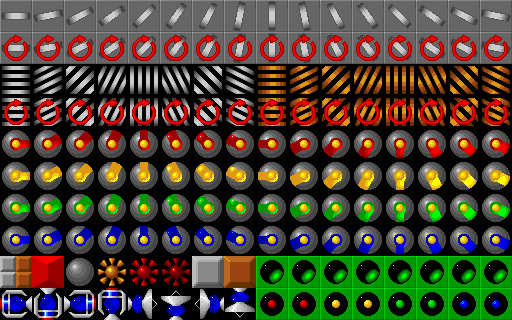
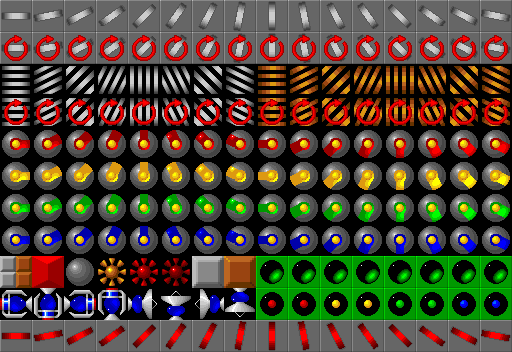
added Deflektor style fixed mirror game elements to MM engine

diff --git a/src/conf_gfx.c b/src/conf_gfx.c
@@ -5787,6 +5787,71 @@ struct ConfigInfo image_config[] =
   { "df_mine.active.delay",			"6"			},
   { "df_mine.active.anim_mode",			"pingpong"		},
 
+  { "df_mirror_fixed_1",			"RocksDF.png"		},
+  { "df_mirror_fixed_1.xpos",			"0"			},
+  { "df_mirror_fixed_1.ypos",			"10"			},
+  { "df_mirror_fixed_1.frames",			"1"			},
+  { "df_mirror_fixed_2",			"RocksDF.png"		},
+  { "df_mirror_fixed_2.xpos",			"1"			},
+  { "df_mirror_fixed_2.ypos",			"10"			},
+  { "df_mirror_fixed_2.frames",			"1"			},
+  { "df_mirror_fixed_3",			"RocksDF.png"		},
+  { "df_mirror_fixed_3.xpos",			"2"			},
+  { "df_mirror_fixed_3.ypos",			"10"			},
+  { "df_mirror_fixed_3.frames",			"1"			},
+  { "df_mirror_fixed_4",			"RocksDF.png"		},
+  { "df_mirror_fixed_4.xpos",			"3"			},
+  { "df_mirror_fixed_4.ypos",			"10"			},
+  { "df_mirror_fixed_4.frames",			"1"			},
+  { "df_mirror_fixed_5",			"RocksDF.png"		},
+  { "df_mirror_fixed_5.xpos",			"4"			},
+  { "df_mirror_fixed_5.ypos",			"10"			},
+  { "df_mirror_fixed_5.frames",			"1"			},
+  { "df_mirror_fixed_6",			"RocksDF.png"		},
+  { "df_mirror_fixed_6.xpos",			"5"			},
+  { "df_mirror_fixed_6.ypos",			"10"			},
+  { "df_mirror_fixed_6.frames",			"1"			},
+  { "df_mirror_fixed_7",			"RocksDF.png"		},
+  { "df_mirror_fixed_7.xpos",			"6"			},
+  { "df_mirror_fixed_7.ypos",			"10"			},
+  { "df_mirror_fixed_7.frames",			"1"			},
+  { "df_mirror_fixed_8",			"RocksDF.png"		},
+  { "df_mirror_fixed_8.xpos",			"7"			},
+  { "df_mirror_fixed_8.ypos",			"10"			},
+  { "df_mirror_fixed_8.frames",			"1"			},
+  { "df_mirror_fixed_9",			"RocksDF.png"		},
+  { "df_mirror_fixed_9.xpos",			"8"			},
+  { "df_mirror_fixed_9.ypos",			"10"			},
+  { "df_mirror_fixed_9.frames",			"1"			},
+  { "df_mirror_fixed_10",			"RocksDF.png"		},
+  { "df_mirror_fixed_10.xpos",			"9"			},
+  { "df_mirror_fixed_10.ypos",			"10"			},
+  { "df_mirror_fixed_10.frames",		"1"			},
+  { "df_mirror_fixed_11",			"RocksDF.png"		},
+  { "df_mirror_fixed_11.xpos",			"10"			},
+  { "df_mirror_fixed_11.ypos",			"10"			},
+  { "df_mirror_fixed_11.frames",		"1"			},
+  { "df_mirror_fixed_12",			"RocksDF.png"		},
+  { "df_mirror_fixed_12.xpos",			"11"			},
+  { "df_mirror_fixed_12.ypos",			"10"			},
+  { "df_mirror_fixed_12.frames",		"1"			},
+  { "df_mirror_fixed_13",			"RocksDF.png"		},
+  { "df_mirror_fixed_13.xpos",			"12"			},
+  { "df_mirror_fixed_13.ypos",			"10"			},
+  { "df_mirror_fixed_13.frames",		"1"			},
+  { "df_mirror_fixed_14",			"RocksDF.png"		},
+  { "df_mirror_fixed_14.xpos",			"13"			},
+  { "df_mirror_fixed_14.ypos",			"10"			},
+  { "df_mirror_fixed_14.frames",		"1"			},
+  { "df_mirror_fixed_15",			"RocksDF.png"		},
+  { "df_mirror_fixed_15.xpos",			"14"			},
+  { "df_mirror_fixed_15.ypos",			"10"			},
+  { "df_mirror_fixed_15.frames",		"1"			},
+  { "df_mirror_fixed_16",			"RocksDF.png"		},
+  { "df_mirror_fixed_16.xpos",			"15"			},
+  { "df_mirror_fixed_16.ypos",			"10"			},
+  { "df_mirror_fixed_16.frames",		"1"			},
+
   // (these are only defined as elements to support ".PANEL" definitions)
   { "graphic_1",				UNDEFINED_FILENAME	},
   { "graphic_2",				UNDEFINED_FILENAME	},

diff --git a/src/main.c b/src/main.c
@@ -6360,6 +6360,86 @@ struct ElementNameInfo element_name_info[MAX_NUM_ELEMENTS + 1] =
     "empty_space",
     "empty space 16"
   },
+  {
+    "df_mirror_fixed_1",
+    "df_mirror_fixed",
+    "fixed mirror (DF style) (0\xb0)"
+  },
+  {
+    "df_mirror_fixed_2",
+    "df_mirror_fixed",
+    "fixed mirror (DF style) (11.25\xb0)"
+  },
+  {
+    "df_mirror_fixed_3",
+    "df_mirror_fixed",
+    "fixed mirror (DF style) (22.5\xb0)"
+  },
+  {
+    "df_mirror_fixed_4",
+    "df_mirror_fixed",
+    "fixed mirror (DF style) (33.75\xb0)"
+  },
+  {
+    "df_mirror_fixed_5",
+    "df_mirror_fixed",
+    "fixed mirror (DF style) (45\xb0)"
+  },
+  {
+    "df_mirror_fixed_6",
+    "df_mirror_fixed",
+    "fixed mirror (DF style) (56.25\xb0)"
+  },
+  {
+    "df_mirror_fixed_7",
+    "df_mirror_fixed",
+    "fixed mirror (DF style) (67.5\xb0)"
+  },
+  {
+    "df_mirror_fixed_8",
+    "df_mirror_fixed",
+    "fixed mirror (DF style) (78.75\xb0)"
+  },
+  {
+    "df_mirror_fixed_9",
+    "df_mirror_fixed",
+    "fixed mirror (DF style) (90\xb0)"
+  },
+  {
+    "df_mirror_fixed_10",
+    "df_mirror_fixed",
+    "fixed mirror (DF style) (101.25\xb0)"
+  },
+  {
+    "df_mirror_fixed_11",
+    "df_mirror_fixed",
+    "fixed mirror (DF style) (112.5\xb0)"
+  },
+  {
+    "df_mirror_fixed_12",
+    "df_mirror_fixed",
+    "fixed mirror (DF style) (123.75\xb0)"
+  },
+  {
+    "df_mirror_fixed_13",
+    "df_mirror_fixed",
+    "fixed mirror (DF style) (135\xb0)"
+  },
+  {
+    "df_mirror_fixed_14",
+    "df_mirror_fixed",
+    "fixed mirror (DF style) (146.25\xb0)"
+  },
+  {
+    "df_mirror_fixed_15",
+    "df_mirror_fixed",
+    "fixed mirror (DF style) (157.5\xb0)"
+  },
+  {
+    "df_mirror_fixed_16",
+    "df_mirror_fixed",
+    "fixed mirror (DF style) (168.75\xb0)"
+  },
 
   // --------------------------------------------------------------------------
   // "real" (and therefore drawable) runtime elements

diff --git a/src/game_mm/mm_main.h b/src/game_mm/mm_main.h
@@ -103,6 +103,8 @@
 				 (e) <= EL_DF_MIRROR_END)
 #define IS_DF_MIRROR_AUTO(e)	((e) >= EL_DF_MIRROR_AUTO_START &&	\
 				 (e) <= EL_DF_MIRROR_AUTO_END)
+#define IS_DF_MIRROR_FIXED(e)	((e) >= EL_DF_MIRROR_FIXED_START &&	\
+				 (e) <= EL_DF_MIRROR_FIXED_END)
 #define IS_LASER(e)		((e) >= EL_LASER_START &&		\
 				 (e) <= EL_LASER_END)
 #define IS_RECEIVER(e)		((e) >= EL_RECEIVER_START &&		\
@@ -585,7 +587,26 @@ extern int		num_element_info;
 #define EL_DF_WALL_STEEL	429
 #define EL_DF_WALL_WOOD		430
 
-#define EL_MM_END_2		430
+#define EL_DF_MIRROR_FIXED_START 431
+#define EL_DF_MIRROR_FIXED_00	(EL_DF_MIRROR_FIXED_START + 0)
+#define EL_DF_MIRROR_FIXED_01	(EL_DF_MIRROR_FIXED_START + 1)
+#define EL_DF_MIRROR_FIXED_02	(EL_DF_MIRROR_FIXED_START + 2)
+#define EL_DF_MIRROR_FIXED_03	(EL_DF_MIRROR_FIXED_START + 3)
+#define EL_DF_MIRROR_FIXED_04	(EL_DF_MIRROR_FIXED_START + 4)
+#define EL_DF_MIRROR_FIXED_05	(EL_DF_MIRROR_FIXED_START + 5)
+#define EL_DF_MIRROR_FIXED_06	(EL_DF_MIRROR_FIXED_START + 6)
+#define EL_DF_MIRROR_FIXED_07	(EL_DF_MIRROR_FIXED_START + 7)
+#define EL_DF_MIRROR_FIXED_08	(EL_DF_MIRROR_FIXED_START + 8)
+#define EL_DF_MIRROR_FIXED_09	(EL_DF_MIRROR_FIXED_START + 9)
+#define EL_DF_MIRROR_FIXED_10	(EL_DF_MIRROR_FIXED_START + 10)
+#define EL_DF_MIRROR_FIXED_11	(EL_DF_MIRROR_FIXED_START + 11)
+#define EL_DF_MIRROR_FIXED_12	(EL_DF_MIRROR_FIXED_START + 12)
+#define EL_DF_MIRROR_FIXED_13	(EL_DF_MIRROR_FIXED_START + 13)
+#define EL_DF_MIRROR_FIXED_14	(EL_DF_MIRROR_FIXED_START + 14)
+#define EL_DF_MIRROR_FIXED_15	(EL_DF_MIRROR_FIXED_START + 15)
+#define EL_DF_MIRROR_FIXED_END	EL_DF_MIRROR_FIXED_15
+
+#define EL_MM_END_2		446
 #define EL_MM_END		EL_MM_END_2
 
 // "real" (and therefore drawable) runtime elements

diff --git a/src/main.h b/src/main.h
@@ -1947,7 +1947,30 @@
 #define EL_EMPTY_SPACE_END		1232
 // ---------- end of empty space elements section -----------------------------
 
-#define NUM_FILE_ELEMENTS		1233
+#define EL_MM_START_3			EL_DF_MIRROR_FIXED_START
+
+#define EL_DF_MIRROR_FIXED_START	1233
+#define EL_DF_MIRROR_FIXED_1		(EL_DF_MIRROR_FIXED_START + 0)
+#define EL_DF_MIRROR_FIXED_2		(EL_DF_MIRROR_FIXED_START + 1)
+#define EL_DF_MIRROR_FIXED_3		(EL_DF_MIRROR_FIXED_START + 2)
+#define EL_DF_MIRROR_FIXED_4		(EL_DF_MIRROR_FIXED_START + 3)
+#define EL_DF_MIRROR_FIXED_5		(EL_DF_MIRROR_FIXED_START + 4)
+#define EL_DF_MIRROR_FIXED_6		(EL_DF_MIRROR_FIXED_START + 5)
+#define EL_DF_MIRROR_FIXED_7		(EL_DF_MIRROR_FIXED_START + 6)
+#define EL_DF_MIRROR_FIXED_8		(EL_DF_MIRROR_FIXED_START + 7)
+#define EL_DF_MIRROR_FIXED_9		(EL_DF_MIRROR_FIXED_START + 8)
+#define EL_DF_MIRROR_FIXED_10		(EL_DF_MIRROR_FIXED_START + 9)
+#define EL_DF_MIRROR_FIXED_11		(EL_DF_MIRROR_FIXED_START + 10)
+#define EL_DF_MIRROR_FIXED_12		(EL_DF_MIRROR_FIXED_START + 11)
+#define EL_DF_MIRROR_FIXED_13		(EL_DF_MIRROR_FIXED_START + 12)
+#define EL_DF_MIRROR_FIXED_14		(EL_DF_MIRROR_FIXED_START + 13)
+#define EL_DF_MIRROR_FIXED_15		(EL_DF_MIRROR_FIXED_START + 14)
+#define EL_DF_MIRROR_FIXED_16		(EL_DF_MIRROR_FIXED_START + 15)
+#define EL_DF_MIRROR_FIXED_END		EL_DF_MIRROR_FIXED_16
+
+#define EL_MM_END_3			EL_DF_MIRROR_FIXED_END
+
+#define NUM_FILE_ELEMENTS		1249
 
 
 // "real" (and therefore drawable) runtime elements

diff --git a/src/editor.c b/src/editor.c
@@ -4697,8 +4697,8 @@ static int editor_el_deflektor[] =
 
   EL_DF_MIRROR_START,
   EL_DF_MIRROR_ROTATING_START,
+  EL_DF_MIRROR_FIXED_START,
   EL_DF_CELL,
-  EL_DF_MINE,
 
   EL_DF_FIBRE_OPTIC_RED_1,
   EL_DF_FIBRE_OPTIC_YELLOW_1,
@@ -4713,7 +4713,7 @@ static int editor_el_deflektor[] =
   EL_DF_STEEL_WALL,
   EL_DF_WOODEN_WALL,
   EL_DF_REFRACTOR,
-  EL_EMPTY
+  EL_DF_MINE
 };
 static int *editor_hl_deflektor_ptr = editor_hl_deflektor;
 static int *editor_el_deflektor_ptr = editor_el_deflektor;
@@ -11917,6 +11917,24 @@ static void SetElementIntelliDraw(int x, int y, int dx, int dy, int new_element,
 	EL_DF_MIRROR_ROTATING_4,
 	EL_DF_MIRROR_ROTATING_3,
 	EL_DF_MIRROR_ROTATING_2
+      },
+      {
+	EL_DF_MIRROR_FIXED_1,
+	EL_DF_MIRROR_FIXED_16,
+	EL_DF_MIRROR_FIXED_15,
+	EL_DF_MIRROR_FIXED_14,
+	EL_DF_MIRROR_FIXED_13,
+	EL_DF_MIRROR_FIXED_12,
+	EL_DF_MIRROR_FIXED_11,
+	EL_DF_MIRROR_FIXED_10,
+	EL_DF_MIRROR_FIXED_9,
+	EL_DF_MIRROR_FIXED_8,
+	EL_DF_MIRROR_FIXED_7,
+	EL_DF_MIRROR_FIXED_6,
+	EL_DF_MIRROR_FIXED_5,
+	EL_DF_MIRROR_FIXED_4,
+	EL_DF_MIRROR_FIXED_3,
+	EL_DF_MIRROR_FIXED_2
       },
 
       {

diff --git a/src/tools.c b/src/tools.c
@@ -8228,6 +8228,10 @@ int map_element_RND_to_MM(int element_rnd)
 	  element_rnd <= EL_MM_END_2 ?
 	  EL_MM_START_2_NATIVE + element_rnd - EL_MM_START_2 :
 
+	  element_rnd >= EL_MM_START_3 &&
+	  element_rnd <= EL_MM_END_3 ?
+	  EL_MM_START_3_NATIVE + element_rnd - EL_MM_START_3 :
+
 	  element_rnd >= EL_CHAR_START &&
 	  element_rnd <= EL_CHAR_END ?
 	  EL_MM_CHAR_START_NATIVE + element_rnd - EL_CHAR_START :
@@ -8252,6 +8256,10 @@ int map_element_MM_to_RND(int element_mm)
 	  element_mm >= EL_MM_START_2_NATIVE &&
 	  element_mm <= EL_MM_END_2_NATIVE ?
 	  EL_MM_START_2 + element_mm - EL_MM_START_2_NATIVE :
+
+	  element_mm >= EL_MM_START_3_NATIVE &&
+	  element_mm <= EL_MM_END_3_NATIVE ?
+	  EL_MM_START_3 + element_mm - EL_MM_START_3_NATIVE :
 
 	  element_mm >= EL_MM_CHAR_START_NATIVE &&
 	  element_mm <= EL_MM_CHAR_END_NATIVE ?

diff --git a/src/game_mm/mm_tools.c b/src/game_mm/mm_tools.c
@@ -1147,6 +1147,8 @@ int get_base_element(int element)
     return EL_DF_MIRROR_START;
   else if (IS_DF_MIRROR_AUTO(element))
     return EL_DF_MIRROR_AUTO_START;
+  else if (IS_DF_MIRROR_FIXED(element))
+    return EL_DF_MIRROR_FIXED_START;
   else if (IS_PACMAN(element))
     return EL_PACMAN_START;
   else if (IS_GRID_STEEL(element))
@@ -1190,7 +1192,8 @@ int get_num_elements(int element)
       IS_POLAR(element) ||
       IS_BEAMER(element) ||
       IS_DF_MIRROR(element) ||
-      IS_DF_MIRROR_AUTO(element))
+      IS_DF_MIRROR_AUTO(element) ||
+      IS_DF_MIRROR_FIXED(element))
     return 16;
   else if (IS_GRID_STEEL_FIXED(element) ||
 	   IS_GRID_WOOD_FIXED(element) ||

diff --git a/src/game_mm/mm_game.c b/src/game_mm/mm_game.c
@@ -1692,6 +1692,7 @@ static boolean HitElement(int element, int hit_mask)
       IS_POLAR_CROSS(element) ||
       IS_DF_MIRROR(element) ||
       IS_DF_MIRROR_AUTO(element) ||
+      IS_DF_MIRROR_FIXED(element) ||
       element == EL_PRISM ||
       element == EL_REFRACTOR)
   {
@@ -1710,7 +1711,8 @@ static boolean HitElement(int element, int hit_mask)
     if (IS_MIRROR(element) ||
 	IS_MIRROR_FIXED(element) ||
 	IS_DF_MIRROR(element) ||
-	IS_DF_MIRROR_AUTO(element))
+	IS_DF_MIRROR_AUTO(element) ||
+	IS_DF_MIRROR_FIXED(element))
       laser.current_angle = get_mirrored_angle(laser.current_angle,
 					       get_element_angle(element));
 

diff --git a/src/game_mm/export.h b/src/game_mm/export.h
@@ -42,6 +42,9 @@
 #define EL_MM_START_2_NATIVE		240
 #define EL_MM_END_2_NATIVE		430
 
+#define EL_MM_START_3_NATIVE		431
+#define EL_MM_END_3_NATIVE		446
+
 #define EL_MM_RUNTIME_START_NATIVE	500
 #define EL_MM_RUNTIME_END_NATIVE	504
 
